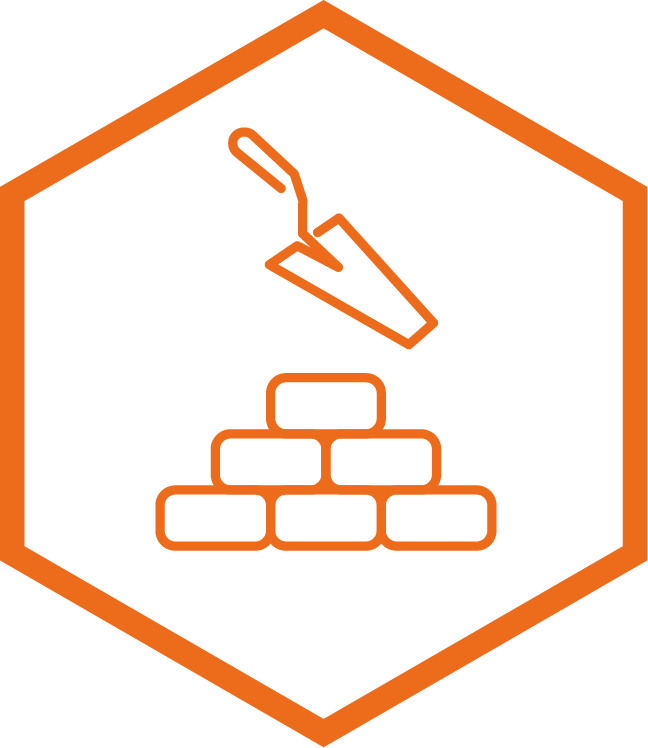
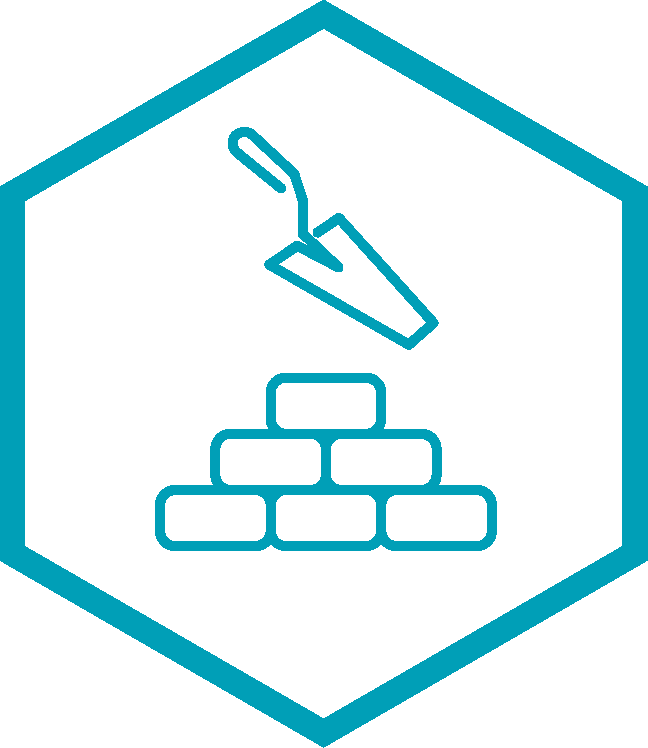
front finish

Changed region(s): [[0.0, 0.0, 1.0, 1.0], [0.216, 0.492, 0.7716, 0.738], [0.3395, 0.1537, 0.679, 0.492]]

diff --git a/app/assets/images/TrustAndFind_files/application-849d06bbc33e9107fe3b7f4525d7e22d1a681f2c43e77943b4fd1853eaeb4935.css b/app/assets/images/TrustAndFind_files/application-849d06bbc33e9107fe3b7f4525d7e22d1a681f2c43e77943b4fd1853eaeb4935.css
@@ -19304,9 +19304,9 @@ readers do not read off random characters that represent icons */
 
 /* line 7, app/assets/stylesheets/components/_alert.scss */
 .alert-blue {
-  background-color: #007FFF;
+  background-color: #009FB7;
   color: white;
-  border-color: #007FFF;
+  border-color: #009FB7;
   opacity: 0.8;
 }
 
@@ -19471,7 +19471,7 @@ readers do not read off random characters that represent icons */
 
 /* line 42, app/assets/stylesheets/components/_card.scss */
 .card-step:hover .fas {
-  color: #007FFF;
+  color: #009FB7;
 }
 
 /* line 47, app/assets/stylesheets/components/_card.scss */
@@ -19497,7 +19497,7 @@ readers do not read off random characters that represent icons */
 
 /* line 63, app/assets/stylesheets/components/_card.scss */
 .selected {
-  border: solid 4px #007FFF;
+  border: solid 4px #009FB7;
   transform: scale(1.1);
 }
 
@@ -19526,16 +19526,16 @@ readers do not read off random characters that represent icons */
 /* line 13, app/assets/stylesheets/components/_button.scss */
 .button-invers {
   display: block;
-  color: #007FFF;
+  color: #009FB7;
   padding: 10px 15px;
   background-color: rgba(0, 0, 0, 0);
-  border: solid 3px #007FFF;
+  border: solid 3px #009FB7;
   transition: all 0.3s;
 }
 
 /* line 20, app/assets/stylesheets/components/_button.scss */
 .button-invers:hover {
-  background-color: #007fff;
+  background-color: #009FB7;
   color: white;
   text-decoration: none;
 }
@@ -19625,7 +19625,7 @@ readers do not read off random characters that represent icons */
 
 /* line 26, app/assets/stylesheets/components/_footer.scss */
 .footer-links a:hover {
-  color: #007FFF;
+  color: #009FB7;
 }
 
 /* line 29, app/assets/stylesheets/components/_footer.scss */
@@ -19637,7 +19637,7 @@ readers do not read off random characters that represent icons */
 
 /* line 33, app/assets/stylesheets/components/_footer.scss */
 .footer-copyright:hover {
-  color: #007FFF;
+  color: #009FB7;
 }
 
 /* line 37, app/assets/stylesheets/components/_footer.scss */

diff --git a/app/assets/stylesheets/components/_button.scss b/app/assets/stylesheets/components/_button.scss
@@ -4,7 +4,7 @@
   background-color: rgba(255, 255, 255, 0);
   border: solid 3px white;
   transition: all 0.3s;
-  
+
   &:hover {
     background-color: rgba(255, 255, 255, 1);
     color: black;
@@ -14,13 +14,13 @@
 .button-invers {
   display: block;
 
-  color: #007FFF;
+  color: #009FB7;
 
   padding: 10px 15px;
   text-align: center;
   background-color: rgba( 0, 0, 0, 0);
 
-  border: solid 3px #007FFF;
+  border: solid 3px #009FB7;
 
   transition: all 0.3s;
 
@@ -45,16 +45,16 @@
   justify-content: center;
   align-items: center;
   flex-direction: column;
-  background-color:#007FFF;
+  background-color:#009FB7;
   border-radius: 300px;
   color:#ffffff;
-  
+
  border:none;
   padding: 10px 32px;
   font-weight: 700;
-  
+
   font-family:"Roboto", sans-serif;
-  
+
   box-shadow: -4px -4px 6px #ffffff, 2px 2px 12px #6c7986 ;
   transition: all 0.2s ease-in out;
   &:hover {
@@ -62,8 +62,8 @@
     color:  #ffffff;
     transform: scale(1.025);
   }
-  
+
 }
 
 
- 
+

diff --git a/app/assets/stylesheets/components/_stepper.scss b/app/assets/stylesheets/components/_stepper.scss
@@ -77,7 +77,8 @@
 }
 
 .mdl-stepper-horizontal-alternative .mdl-stepper-step.active-step .mdl-stepper-circle {
-  background-color: #007FFF;
+  margin-bottom: 16px;
+  background-color: #009FB7;
 }
 
 .mdl-stepper-horizontal-alternative .mdl-stepper-step.step-done .mdl-stepper-circle:before {
@@ -105,7 +106,7 @@
 }
 
 .mdl-stepper-horizontal-alternative .mdl-stepper-step .mdl-stepper-title {
-  margin-top: 16px;
+  // margin-top: 16px;
   font-size: 14px;
   font-weight: normal;
 }
@@ -148,12 +149,12 @@
   right: 0;
   left: 50%;
   margin-left: 20px;
-  border-top: 6px solid #007FFF;
+  border-top: 6px solid #009FB7;
 }
 
 .mdl-stepper-horizontal-alternative .mdl-stepper-step .mdl-stepper-bar-left-done {
   left: 0;
   right: 50%;
   margin-right: 20px;
-  border-top: 6px solid #007FFF;
+  border-top: 6px solid #009FB7;
 }

diff --git a/app/assets/stylesheets/components/_card.scss b/app/assets/stylesheets/components/_card.scss
@@ -39,7 +39,7 @@
   &:hover {
     transform: scale(1.025);
     .fas {
-      color: #007FFF;
+      color: #009FB7;
     }
   }
 }
@@ -63,14 +63,14 @@ a:hover {
 }
 
 .selected {
-  border: solid 4px #007FFF;
+  border: solid 4px #009FB7;
   transform: scale(1.1);
 }
 
 .img-card {
   width: 50vh;
   height: 40vh;
-  
+
 }
 
 .card-total-cost {

diff --git a/app/assets/stylesheets/components/_footer.scss b/app/assets/stylesheets/components/_footer.scss
@@ -24,14 +24,14 @@
   transition: all 0.3s;
 }
 .footer-links a:hover {
-  color: #007FFF;
+  color: #009FB7;
 }
 .footer-copyright {
   color: black;
   opacity: 1;
   transition: all 0.3s;
   &:hover {
-    color: #007FFF;
+    color: #009FB7;
   }
 }
 .fix-footer {

diff --git a/app/assets/stylesheets/components/_alert.scss b/app/assets/stylesheets/components/_alert.scss
@@ -5,8 +5,8 @@
   z-index: 1000;
 }
 .alert-blue {
-  background-color: #007FFF;
+  background-color: #009FB7;
   color: white;
-  border-color: #007FFF;
+  border-color: #009FB7;
   opacity: 0.8;
 }

diff --git a/app/controllers/bookings_controller.rb b/app/controllers/bookings_controller.rb
@@ -38,6 +38,7 @@ class BookingsController < ApplicationController
   def show
     @booking = Booking.find(params[:id])
     authorize @booking
+    @step6 = true
   end
 
   def confirmation
